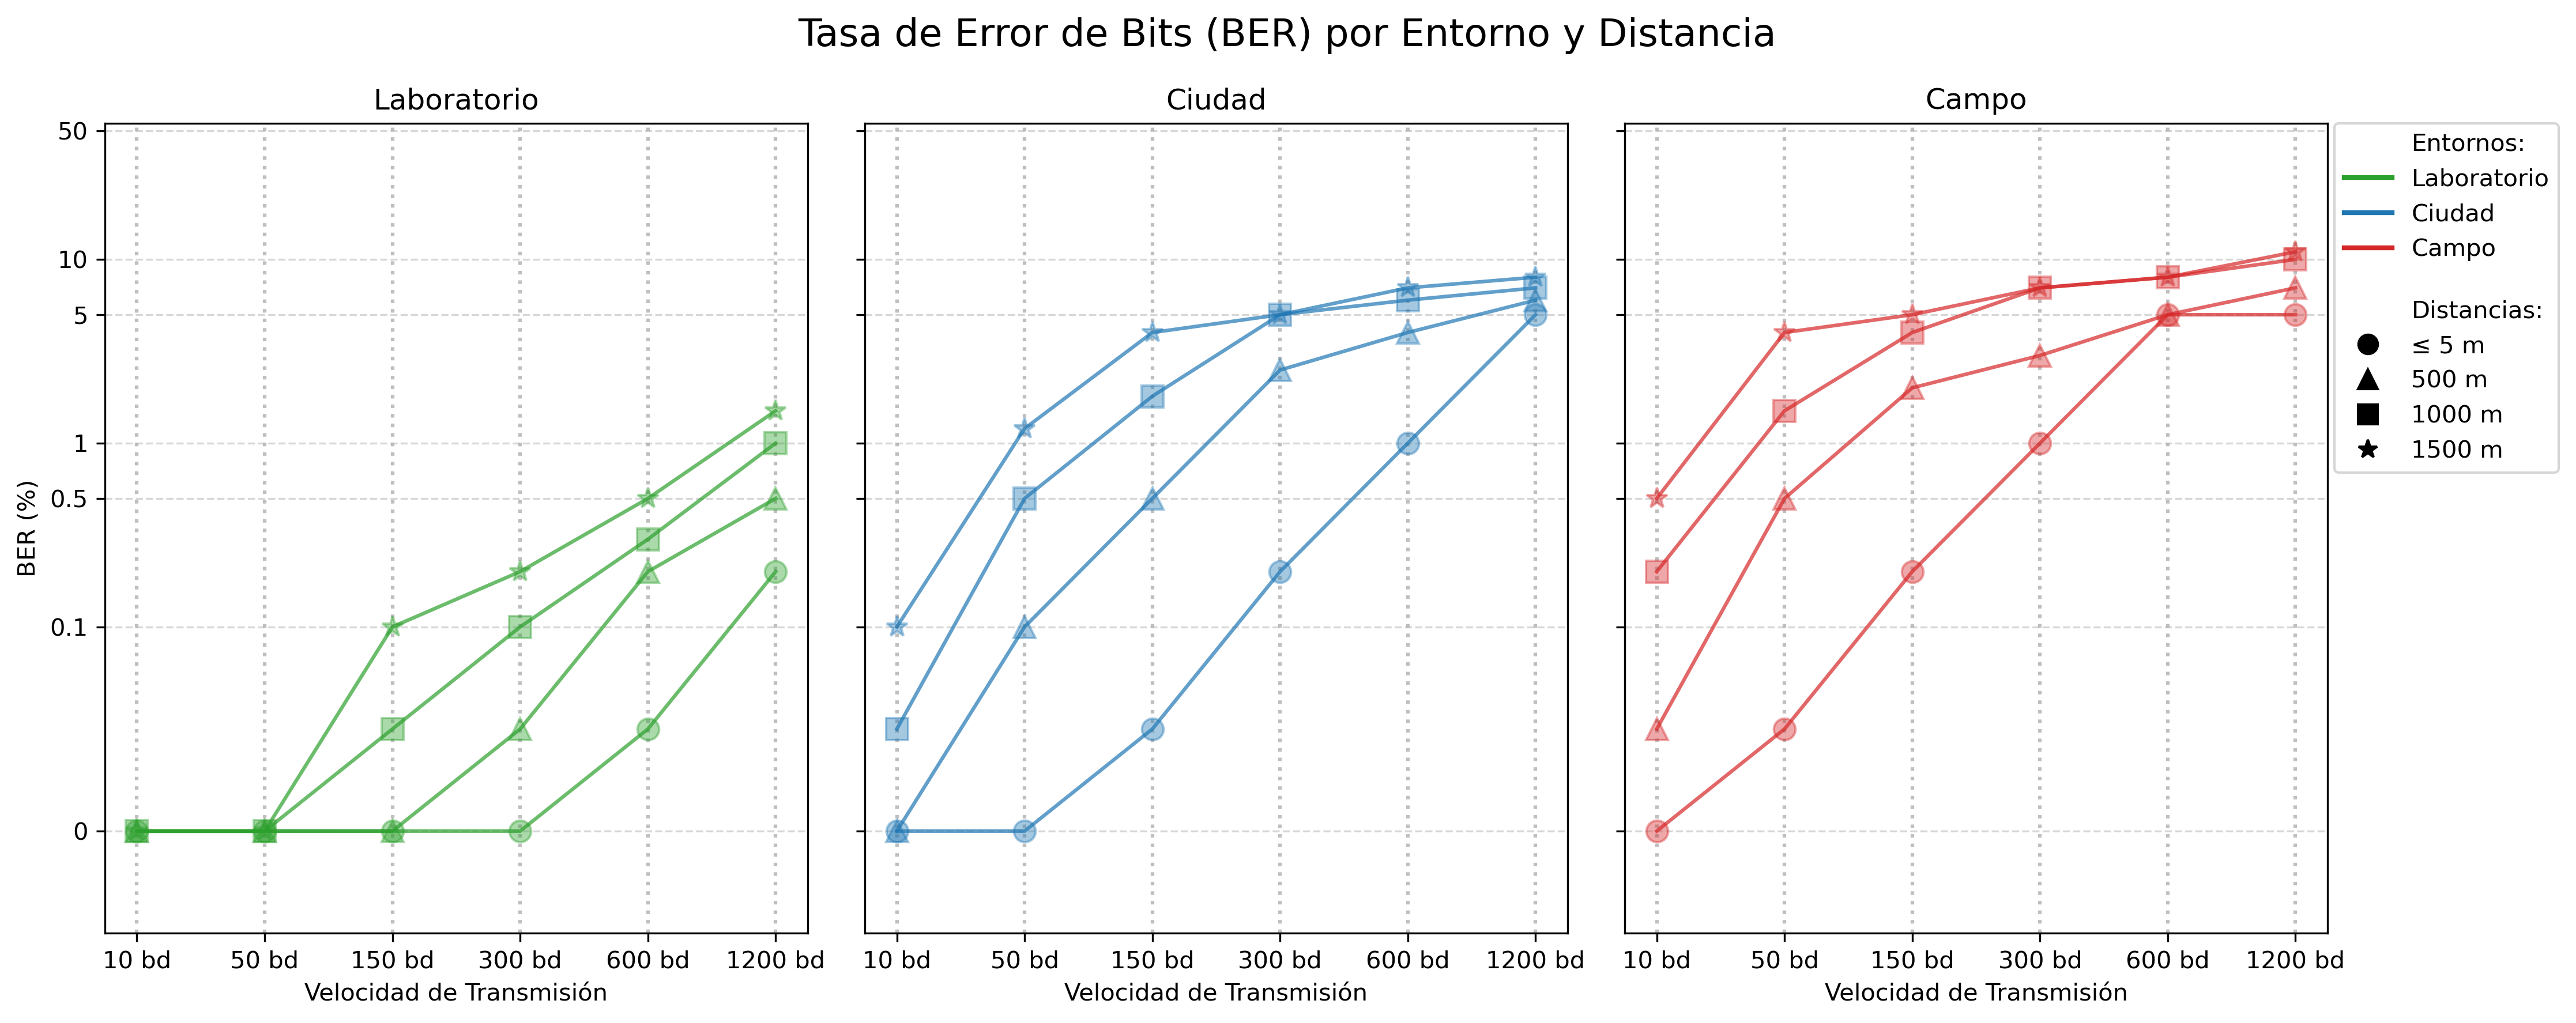
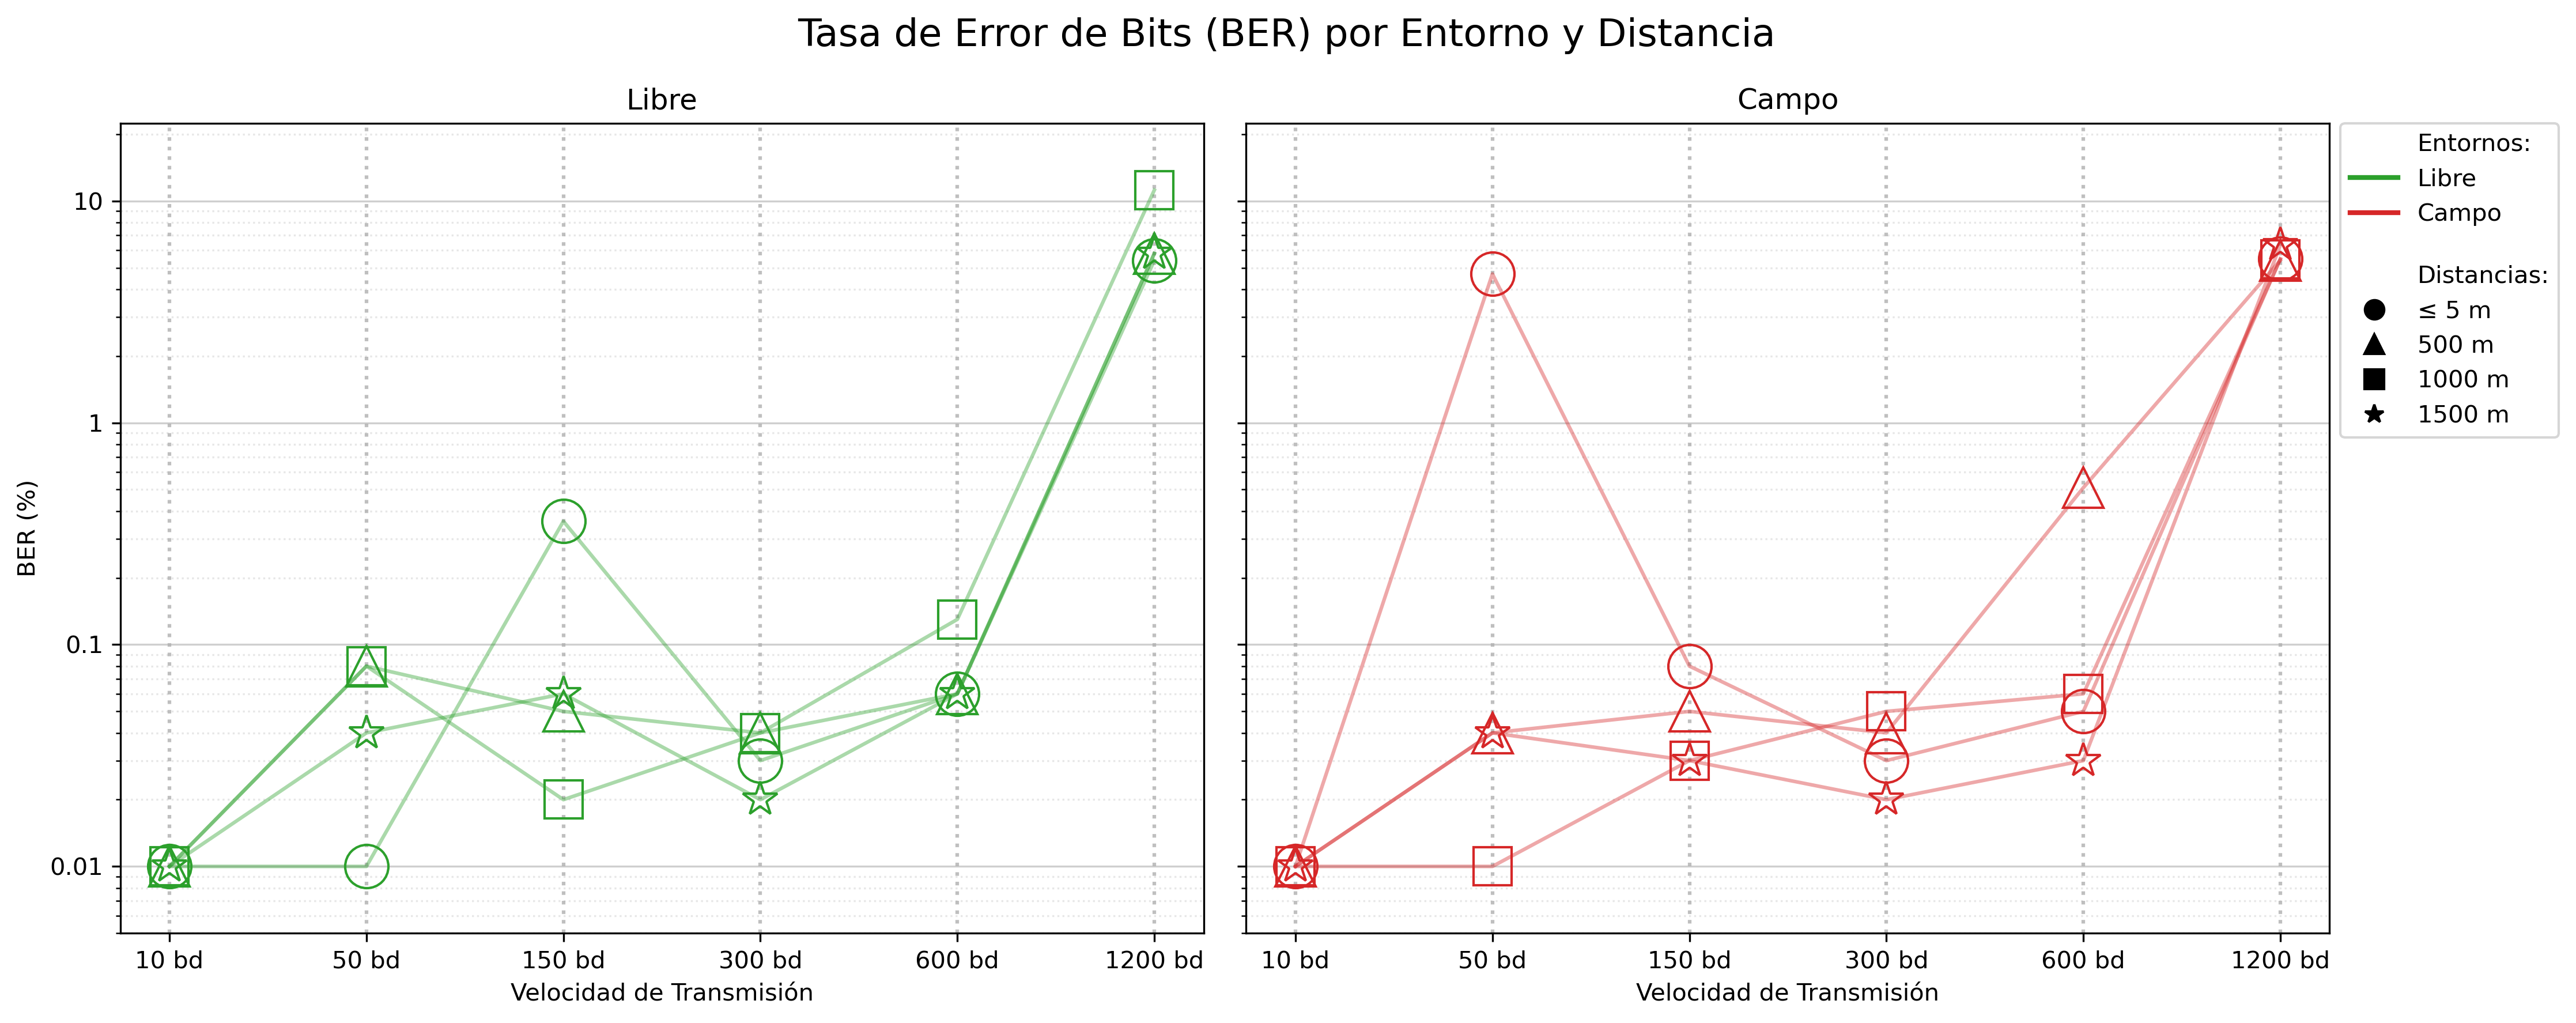
actualizacion con la informacion del trabajo enviado a las Jornadas Argentinas de Robotica

diff --git a/README.md b/README.md
@@ -49,24 +49,57 @@ Mediante el uso de un microcontrolador (**Raspberry Pi Pico 2W**), se implementa
 
 ---
 
-## 📈 Resultados Experimentales de Campo
+## 📈 Ensayos y Resultados Experimentales
 
-Los ensayos de campo se realizaron en un olivar de producción intensiva en San Juan, Argentina, inyectando tramas balanceadas PRBS-7 de 127 bits de longitud repetidas de forma continua. Se operó a una potencia de $1.0\text{ W}$ en la frecuencia UHF de $433\text{ MHz}$ con polarización horizontal.
+Para validar el desempeño del módem AFSK y el enlace de radiofrecuencia en condiciones de operación reales, se diseñó y ejecutó una campaña experimental dividida en **dos entornos de ensayo diferenciados** (2 experimentos independientes):
 
-![Entorno del ensayo en olivar de producción intensiva](./assets/entorno_campo.jpg)
+1. **Espacio Abierto (Libre):** Ensayo en línea de vista rural libre de obstáculos y follaje. Sirve como canal de calibración y referencia para evaluar el desempeño básico y el límite térmico/frecuencial del enlace.
+2. **Bajo Follaje de Olivos (Campo):** Ensayo realizado en una plantación densa de olivos en la provincia de San Juan, Argentina. El enlace se caracterizó por la total obstrucción de la línea de vista directa debido a la biomasa frutal, con las radios posicionadas a menos de 1 metro del suelo y las antenas polarizadas horizontalmente para evitar la absorción de los troncos verticales.
 
-![Mapa de puntos de ensayo y geolocalización de las mediciones](./assets/mapa_ensayo.png)
+Ambos experimentos operaron a una potencia de **1.0 W** (Low Power) en la banda UHF a **433 MHz**.
 
-A continuación se resumen los resultados obtenidos a diferentes distancias y velocidades:
+### 1. Entornos de Ensayo
 
-| Distancia | Baudrate (Velocidad) | BER (% de Error) | Confianza Promedio ($C_k$) | Comentarios de Canal |
-| :---: | :---: | :---: | :---: | :--- |
-| **1 m**<br>*(Laboratorio)* | 10 a 1200 bd | 0.00% a 0.51% | 0.998 a 0.795 | Canal ideal, relación señal-ruido elevada. |
-| **240 m**<br>*(Borde del Predio)* | 300 bd<br>1200 bd | 1.88%<br>7.45% | 0.731<br>0.375 | Línea de vista parcial. Atenuación de agudos perceptible a alta velocidad. |
-| **580 m**<br>*(Bajo Follaje)* | 300 bd<br>1200 bd | 2.17%<br>8.14% | 0.626<br>0.378 | Obstrucción moderada por biomasa. Difracción y atenuación en UHF. |
-| **1500 m**<br>*(Largo Alcance)* | **300 bd**<br>1200 bd | **2.39%**<br>44.53% | **0.714**<br>0.350 | **Obstrucción por árboles adultos sin línea de vista. Configuración con tasa de error mínima a 300 bd.** |
+La siguiente ilustración muestra las condiciones físicas de ambos escenarios de medición:
 
-![Curvas experimentales de tasa de errores de bit (BER) vs velocidad y distancia](./assets/curva_ber.png)
+<p align="center">
+  <img src="./assets/entorno_libre.jpeg" width="380" alt="Entorno del ensayo en espacio abierto (Libre)" />
+  <img src="./assets/entorno_campo.jpg" width="380" alt="Entorno del ensayo bajo follaje de olivos (Campo)" />
+</p>
+
+### 2. Georreferenciación de Mediciones (Figura 5 del Paper)
+
+Los puntos específicos de medición, capturados y georreferenciados mediante el Web-DAQ en el teléfono celular del operador, se ubican a distancias nominales de **5 m, 500 m, 1000 m y 1500 m** en la plantación:
+
+<p align="center">
+  <img src="./assets/mapa_ensayo.png" width="650" alt="Mapa de puntos de ensayo y geolocalización de las mediciones" />
+</p>
+
+### 3. Tasa de Error de Bit (BER)
+
+A continuación se consolidan los resultados de la Tasa de Error de Bit (BER %) obtenidos en cada entorno para las diferentes distancias reales y regímenes de velocidad (baudrate) analizados:
+
+#### Experimento 1: Espacio Abierto (Libre)
+| Distancia Real (Nominal) | 10 bd | 50 bd | 150 bd | 300 bd | 600 bd | 1200 bd |
+| :---: | :---: | :---: | :---: | :---: | :---: | :---: |
+| **0 m** (5 m) | 0.00% | 0.00% | 0.36% | 0.03% | 0.06% | 5.39% |
+| **552 m** (500 m) | 0.00% | 0.08% | 0.05% | 0.04% | 0.06% | 5.80% |
+| **985 m** (1000 m) | 0.00% | 0.08% | 0.02% | 0.04% | 0.13% | 11.20% |
+| **1382 m** (1500 m) | 0.00% | 0.04% | 0.06% | 0.02% | 0.06% | 5.80% |
+
+#### Experimento 2: Bajo Follaje de Olivos (Campo)
+| Distancia Real (Nominal) | 10 bd | 50 bd | 150 bd | 300 bd | 600 bd | 1200 bd |
+| :---: | :---: | :---: | :---: | :---: | :---: | :---: |
+| **0 m** (5 m) | 0.00% | 4.69% | 0.08% | 0.03% | 0.05% | 5.49% |
+| **549 m** (500 m) | 0.00% | 0.04% | 0.05% | 0.04% | 0.51% | 5.40% |
+| **1071 m** (1000 m) | 0.00% | 0.00% | 0.03% | 0.05% | 0.06% | 5.46% |
+| **1484 m** (1500 m) | 0.00% | 0.04% | 0.03% | 0.02% | 0.03% | 6.33% |
+
+El comportamiento y la comparación visual del BER de ambos entornos se detalla en las curvas experimentales (subplots) obtenidas:
+
+<p align="center">
+  <img src="./assets/curva_ber.png" width="800" alt="Curvas experimentales de tasa de errores de bit (BER) vs velocidad y distancia" />
+</p>
 
 ---
 
@@ -90,6 +123,7 @@ ORR/
 ├── firmware/            # Código fuente para Raspberry Pi Pico 2W (MicroPython)
 │   ├── tx/              # Firmware del nodo transmisor (DDS, PWM, FSM, PRBS-7)
 │   └── rx/              # Firmware del nodo receptor (adquisición en Core 1, servidor TCP en Core 0)
+├── fotos/               # Fotografías de los entornos experimentales (libre y campo)
 ├── hardware/            # Esquemáticos y manual de acondicionamiento de la interfaz analógica
 │   └── esquematicos/    # Circuitos y pinout de interconexión
 ├── mechanics/           # Gabinete protector e interfaz de acople mecánico 3D (STL/STEP)